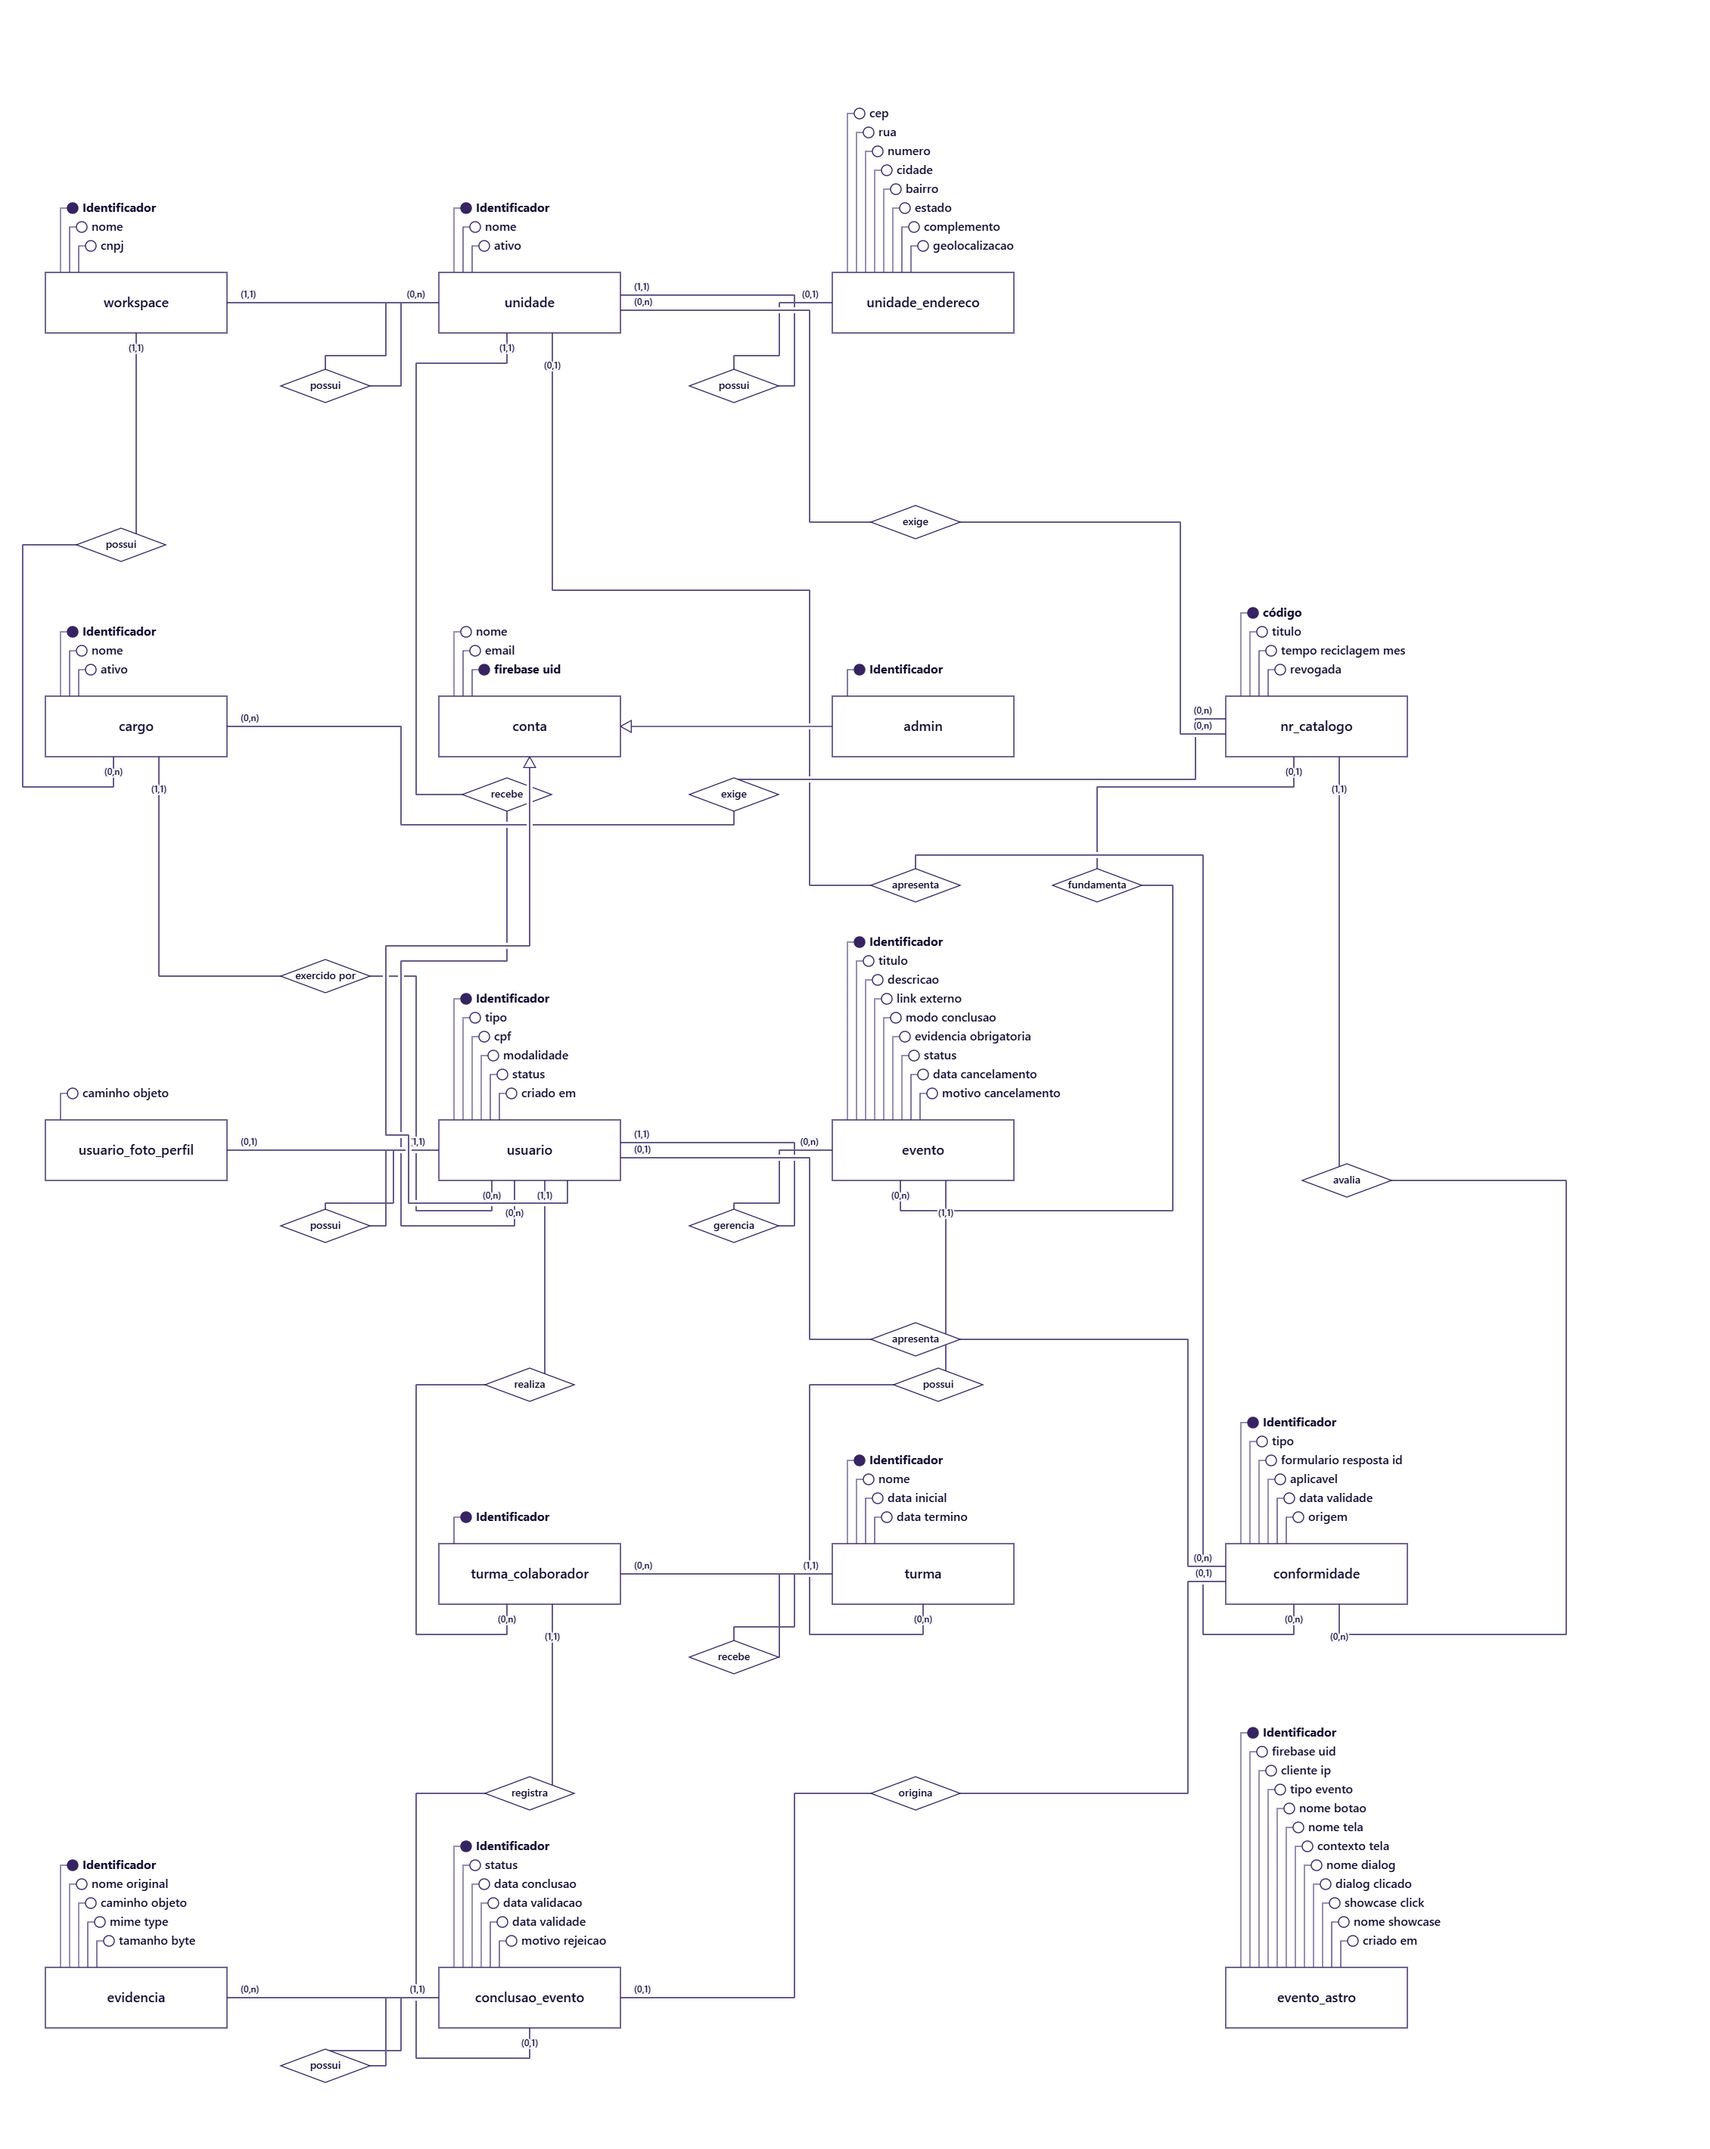
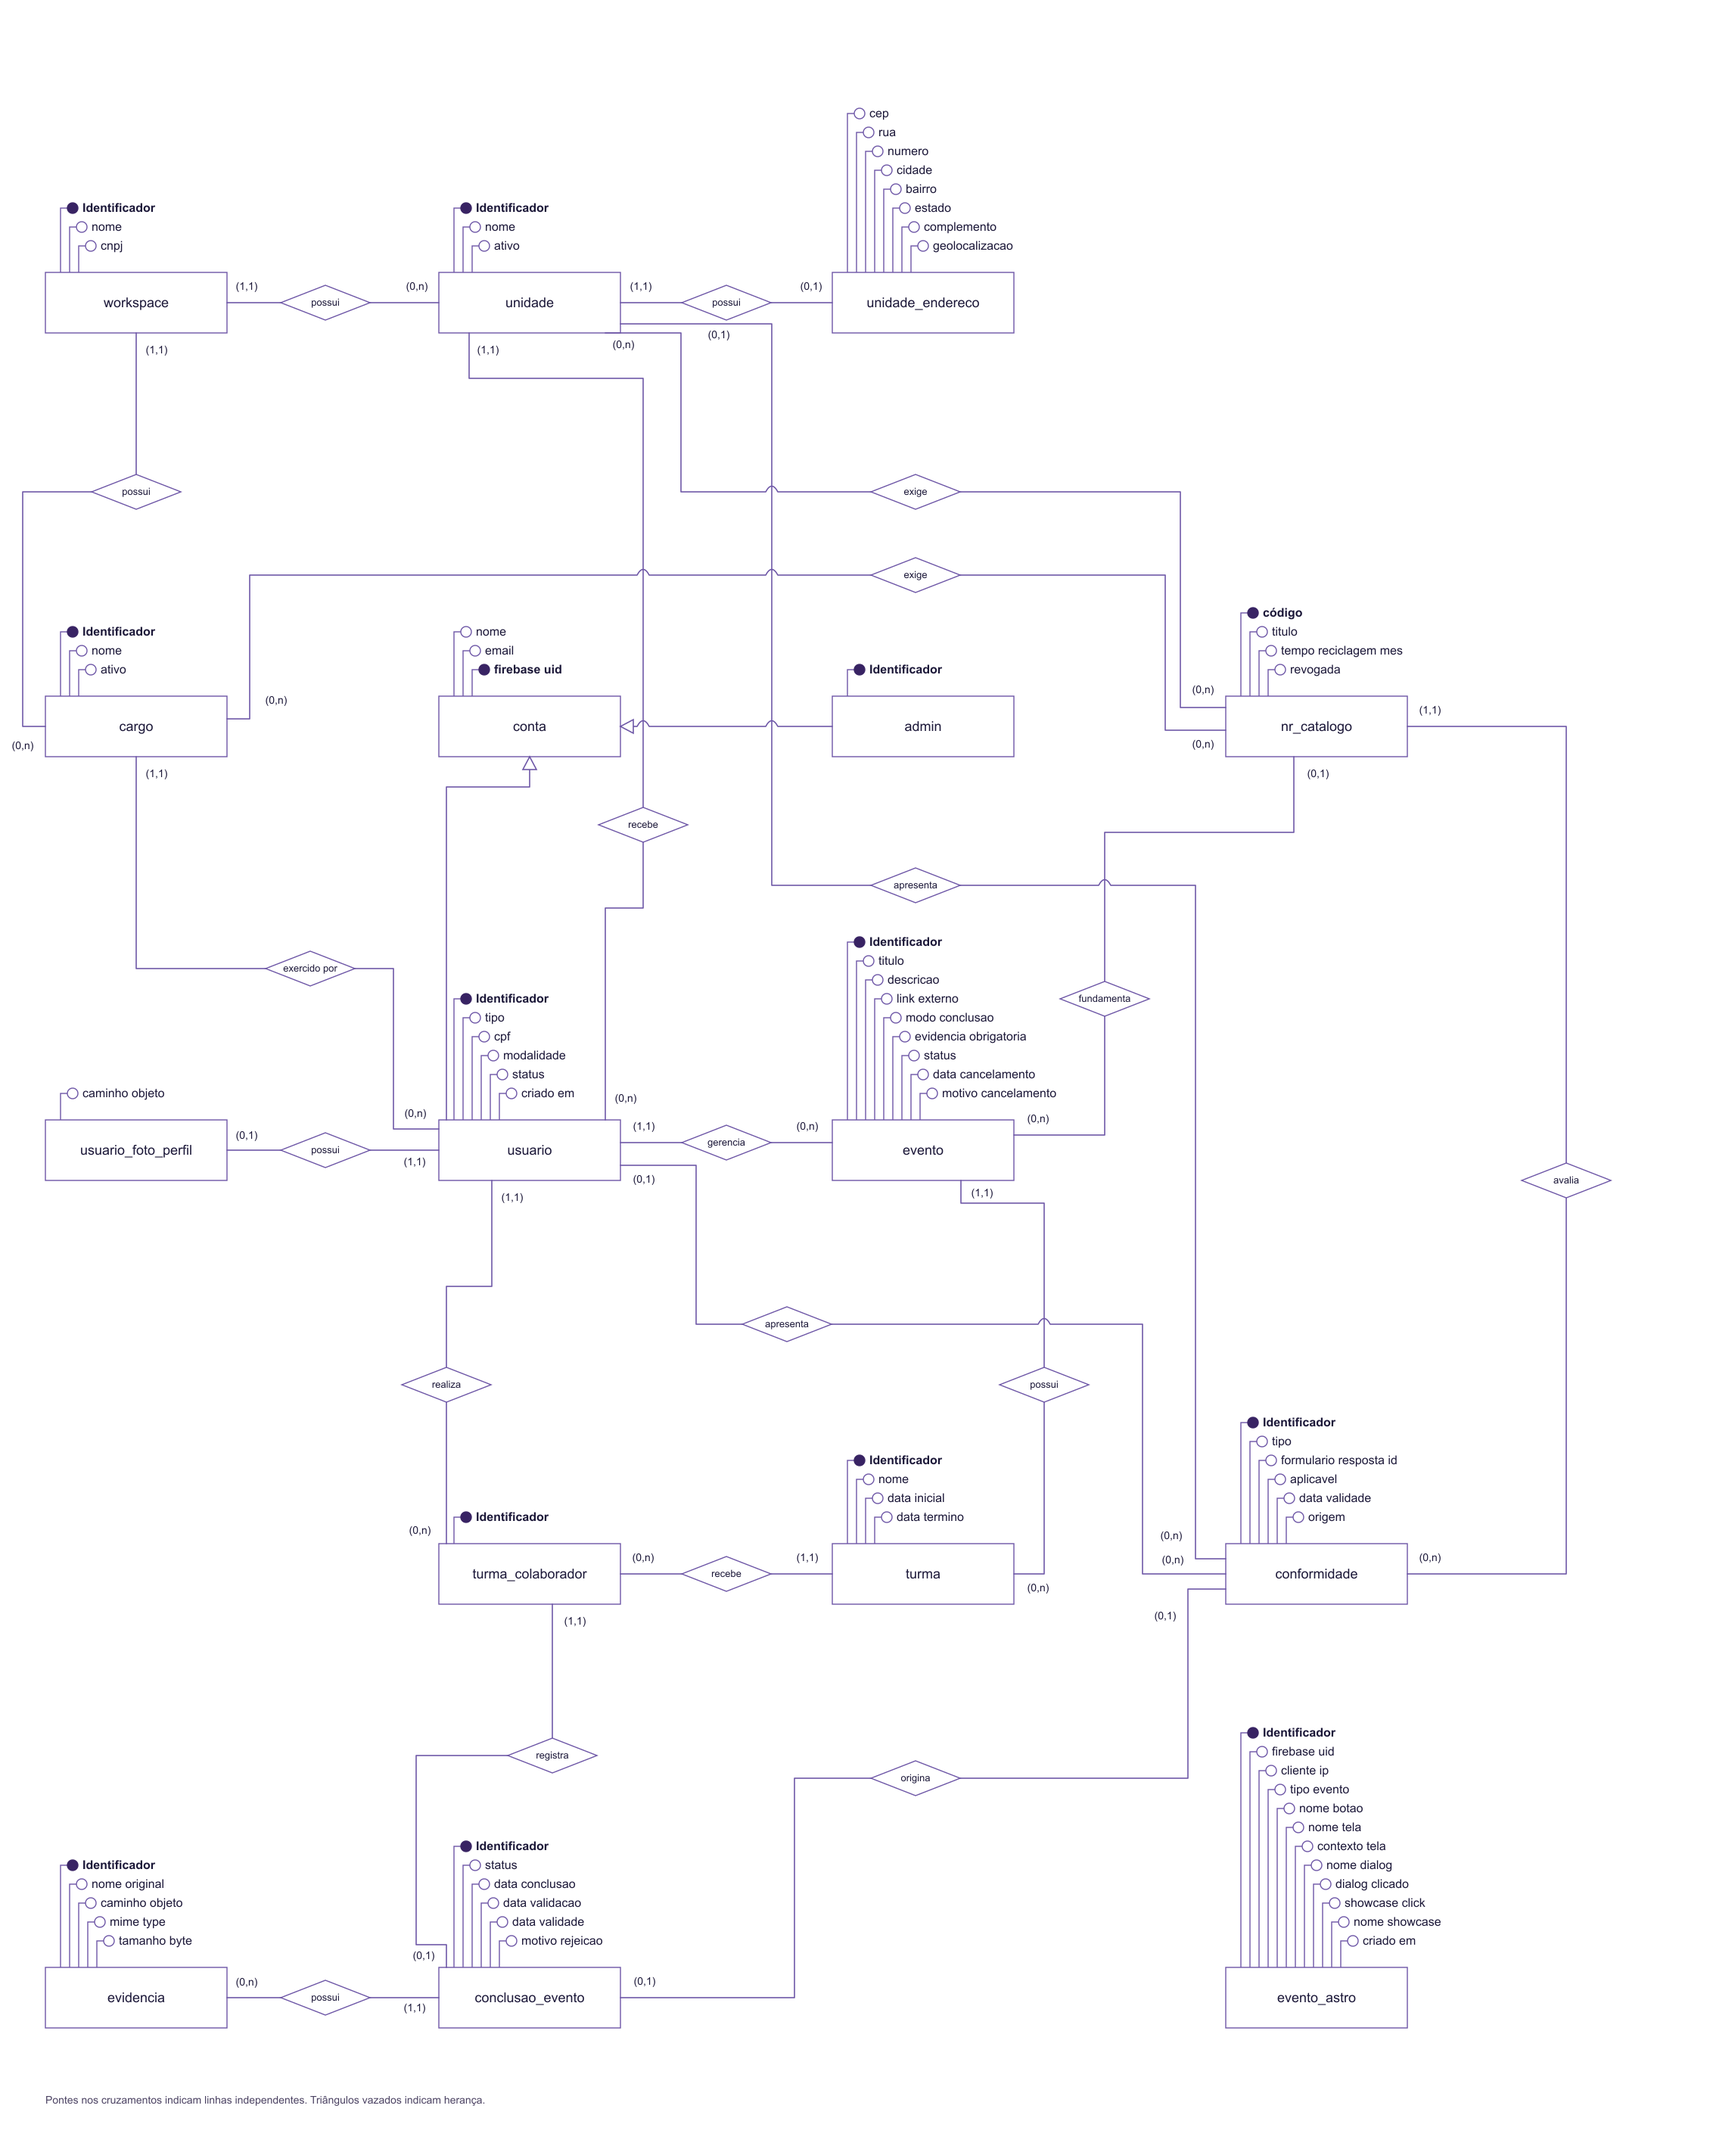
docs(SCRUM-659): tornar claras as ligacoes do modelo conceitual

diff --git a/models/README.md b/models/README.md
@@ -5,6 +5,8 @@ Adicione aqui as imagens configuradas em `database-workspace.config.json`:
 - `conceitual.png`
 - `logico.png`
 
+O modelo conceitual também possui a fonte editável `conceitual.svg`. Seus conectores são separados por relacionamento, com cardinalidades junto aos extremos e pontes para indicar cruzamentos sem ligação. Ao editar essa fonte, atualize também `conceitual.png`, que é a imagem exibida no site.
+
 A V1 apenas apresenta os modelos fornecidos; ela não os gera automaticamente.
 
 Para usar outros nomes ou formatos aceitos pelo navegador, altere somente:
